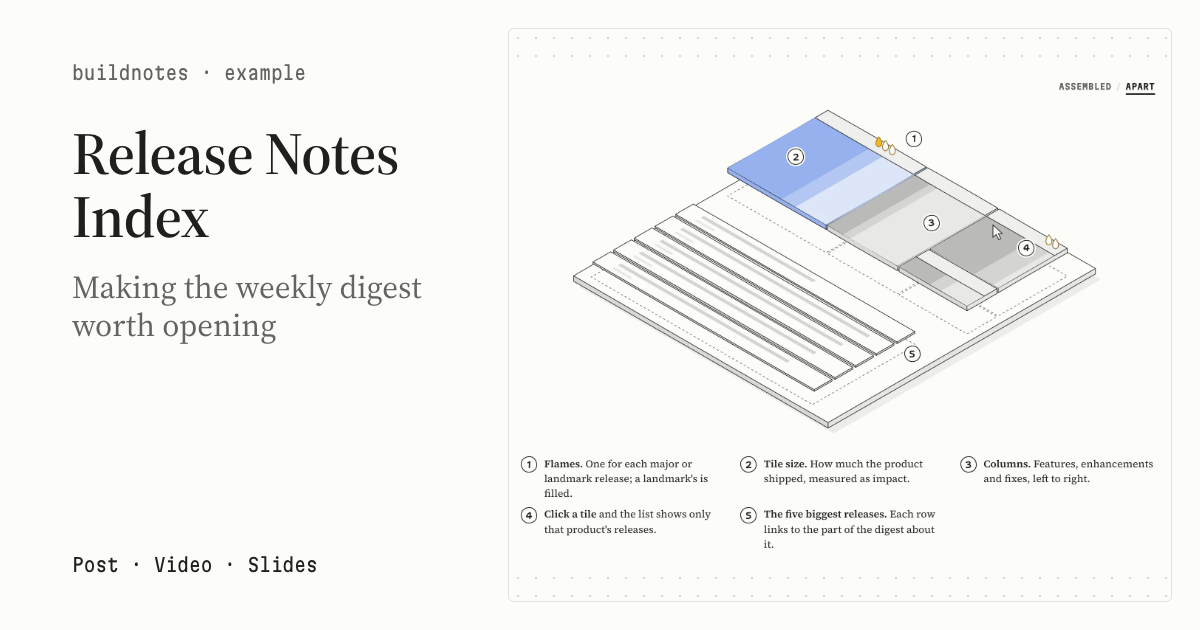
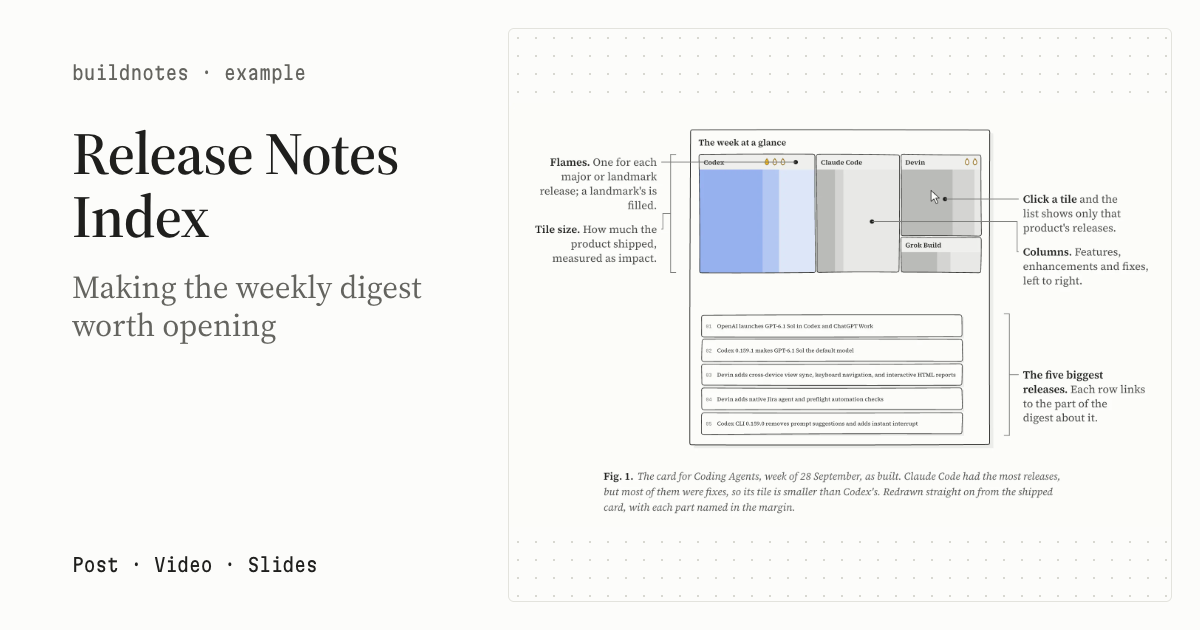
docs(site): use the new digest figure for the examples card and link previews
The examples page and docs/components.md show the flat card with margin
notes instead of the iso apart picture, which is removed. The link-preview
figure is fitted to its panel so the margin notes aren't clipped, and the
previews are rebuilt.

Changed region(s): [[0.4317, 0.181, 0.9558, 0.8444], [0.8325, 0.573, 0.9558, 0.6937], [0.8633, 0.1206, 0.9558, 0.1508]]

diff --git a/site/src/index.html b/site/src/index.html
@@ -328,7 +328,7 @@ section > * { min-width: 0; }
     <h2 id="more-h">More examples</h2>
     <div class="others">
       <div><a href="examples/uploads-before-after/"><img src=".github/assets/before-after-compare.webp" alt=""></a><div><h3><a href="examples/uploads-before-after/">Uploads</a></h3><p>Before and after screenshots: tag two, and the pull request comment shows them side by side.</p></div></div>
-      <div><a href="examples/releases-weekly-digests/"><img src=".github/assets/digest-apart.webp" alt=""></a><div><h3><a href="examples/releases-weekly-digests/">Release Notes Index</a></h3><p>Weekly digests: a card, a replay of the week, and one email a week per reader.</p></div></div>
+      <div><a href="examples/releases-weekly-digests/"><img src=".github/assets/digest-card-hero.webp" alt=""></a><div><h3><a href="examples/releases-weekly-digests/">Release Notes Index</a></h3><p>Weekly digests: a card, a replay of the week, and one email a week per reader.</p></div></div>
     </div>
     <div class="links"><a href="examples/">All examples</a></div>
   </section>

diff --git a/site/src/card.html b/site/src/card.html
@@ -39,7 +39,7 @@ h1 span { display: block; margin-top: 18px; color: var(--muted); font-weight: 40
   background: radial-gradient(circle, var(--dot) 1px, transparent 1.4px) 0 0 / 18px 18px, var(--paper);
   display: grid; place-items: center; overflow: hidden;
 }
-.figure .anatomy { width: 640px; }
+.figure .anatomy { width: 100%; padding: 0 20px; box-sizing: border-box; }
 .figure .keys, .figure .parts-view { display: none; }
 .figure .hs .dot { width: 26px; height: 26px; font-size: 14px; }
 

diff --git a/CHANGELOG.md b/CHANGELOG.md
@@ -37,7 +37,7 @@ Until the first release, changes are recorded under [Unreleased].
 
 ### Changed
 
-- `anatomy`: the flat and screenshot views put each key's text in the margin, joined to its part by a hairline (a bracket for a key with `"span": true`, a dot otherwise), instead of numbered discs and a legend. Below about 560px they fall back to small numbers and the legend; `"notes": "keys"` keeps the old hotspots, and iso always uses them. The flat view takes the iso view's tones with an offset shadow, and its list rows are drawn as raised slabs. The weekly-digests card is drawn flat instead of iso, and the committed weekly-digests and walkthrough-videos posts and the README's hero and example images are re-rendered with margin notes. `lint.mjs` counts margin notes as hotspots, and `inline-assets.mjs` and the gallery handle an SVG `<image href>`.
+- `anatomy`: the flat and screenshot views put each key's text in the margin, joined to its part by a hairline (a bracket for a key with `"span": true`, a dot otherwise), instead of numbered discs and a legend. Below about 560px they fall back to small numbers and the legend; `"notes": "keys"` keeps the old hotspots, and iso always uses them. The flat view takes the iso view's tones with an offset shadow, and its list rows are drawn as raised slabs. The weekly-digests card is drawn flat instead of iso, and the committed weekly-digests and walkthrough-videos posts and the README's hero and example images are re-rendered with margin notes. The examples page and `docs/components.md` show the new hero in place of the iso "apart" picture (`digest-apart.webp` is removed), and the link previews are rebuilt. `lint.mjs` counts margin notes as hotspots, and `inline-assets.mjs` and the gallery handle an SVG `<image href>`.
 
 - Length guidance sizes a post by the scope of the change, with bands measured against published Cloudflare and Astro posts (`references/story.md`). The deep dive gets a soft ceiling of about 3,000 words: `lint.mjs` warns past it and the author can let it stand.
 - Lessons from comparing two outside deep dives with the projects' own announcements: stage a cause a reader would hit in a demo run and show the fix (`references/evidence.md`), read a source's claim in its context before calling it wrong (`references/evidence.md`), walk a report from the top down to a cause even in a deep dive, and let the try-it prove the feature's promise (`references/story.md`), and read the release a feature shipped in for where it fits (`references/brief.md`).

diff --git a/docs/components.md b/docs/components.md
@@ -46,7 +46,7 @@ The images on this page were exported with the skill's own [`scripts/export.mjs`
     <td colspan="2"><sub><b>shader</b>: a WebGL fragment shader, for posts where the pixels are the subject, shown on the reader's own screen.</sub></td>
   </tr>
   <tr>
-    <td colspan="2"><img src="../.github/assets/digest-apart.webp" alt="The 'week at a glance' card drawn at an angle in the field notes style, taken apart: the product tiles and the list of releases lifted off the base, with dashed outlines where they sat and five numbered keys."></td>
+    <td colspan="2"><img src="../.github/assets/digest-card-hero.webp" alt="The 'week at a glance' card drawn straight on in the field notes style: product tiles split into grey columns, the largest in blue, and five release rows, with notes in the margins joined to each part by a hairline."></td>
   </tr>
   <tr>
     <td colspan="2"><sub><b>anatomy</b>: one parts list, measured on a capture, drawn flat or shown as the capture itself with notes in the margin, or at an angle and taken apart. This one is from <code>examples/releases-weekly-digests</code>.</sub></td>
